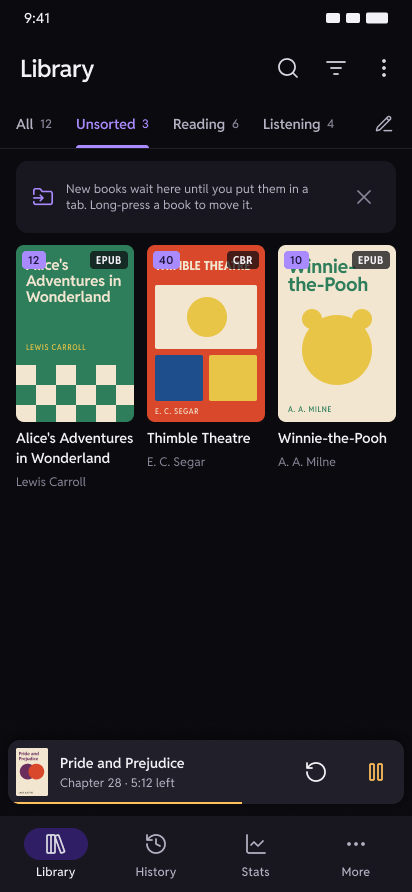
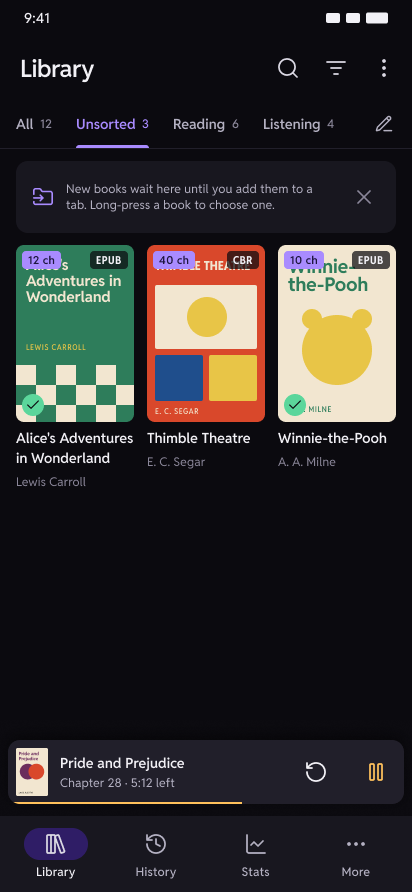
Apply review fixes: read along legibility, phase labels on canvas, tabs delete, book stats summary, paywall terms

diff --git a/design/demo-library.md b/design/demo-library.md
@@ -5,7 +5,7 @@ All titles are public domain except "Orb-weaver silk mechanics", which stands in
 | # | Title | Author | Type | Format | Count badge | Status | Progress |
 |---|---|---|---|---|---|---|---|
 | 1 | Moby-Dick; or, The Whale | Herman Melville | ebook | EPUB | 135 chapters | reading | 1% (chapter 1; on-device narration at 5% of the chapter) |
-| 2 | Frankenstein | Mary Shelley | ebook + audio pair | EPUB + M4B (8h 35m) | 24 chapters | reading | 32% (chapter 8, 4:50 of 20:37) |
+| 2 | Frankenstein | Mary Shelley | ebook + audio pair | EPUB + M4B (8h 35m) | 24 chapters | reading | 32% (chapter 8, 4:46 of 20:37) |
 | 3 | Pride and Prejudice | Jane Austen | audio | M4B | 11h 35m | reading | 45% |
 | 4 | Little Nemo in Slumberland | Winsor McCay | comic | CBZ | 190 pages | reading | page 118 of 190 (62%) |
 | 5 | The Time Machine | H. G. Wells | pdf | PDF | 240 pages | reading | page 118 of 240 (49%) on the phone; page 210 (88%) on the tablet |
@@ -19,18 +19,20 @@ All titles are public domain except "Orb-weaver silk mechanics", which stands in
 
 ## Library tabs (placed by hand)
 
-Defaults: All, Unsorted, Reading, Listening. Imports land in Unsorted. A book can be in more than one tab.
+Defaults: All, Unsorted, Reading, Listening. Imports land in Unsorted. A book can be in more than one tab. Every tab can be renamed or deleted; Restore default tabs brings the four defaults back.
+
+Count badges carry units: ch (chapters or issues), p (pages), or running time.
 
 - All 12 (fills itself).
 - Unsorted 3 (fills itself: books in no tab): 7, 11, 12.
 - Reading 6: 1, 2, 4, 5, 8, 10.
 - Listening 4: 2, 3, 6, 9.
 - Check: Reading ∪ Listening = 9 books (Frankenstein is in both), plus Unsorted 3 = 12.
-- Move sheet example: Alice (7) and Winnie-the-Pooh (12) selected, going into a new tab "Kids".
+- Add-to-tab example: Alice (7) and Winnie-the-Pooh (12) selected and added to a new tab "Kids" (0 books before, 2 after). Afterwards Unsorted shows 1 (Thimble Theatre).
 
 ## Status counts (from progress, not tabs)
 
-Started 7 (1, 2, 3, 4, 5, 8, 10) · Finished 2 (7, 12) · Not started 3 (6, 9, 11) = 12.
+In progress 7 (1, 2, 3, 4, 5, 8, 10) · Finished 2 (7, 12) · Not started 3 (6, 9, 11) = 12.
 
 ## Time spent, all time (sessions)
 
@@ -72,7 +74,7 @@ Not opened yet: MP3 (Dracula), CBR (Thimble Theatre). Shares add to 100%.
 | Sat 10 Oct | 42 | 60 | 102 (1h 42m) |
 | Total | 252 (4h 12m) | 365 (6h 05m) | 617 (10h 17m) |
 
-- Daily average 617 / 7 = 88.1 min → 1h 28m. Streak 7 days (every day above zero).
+- Daily average 617 / 7 = 88.1 min → 1h 28m. Streak 8 days: 9 Oct (13 min of Pride and Prejudice) through 16 Oct; nothing on 8 Oct.
 - Bars scale to the busiest day (105 min = full width).
 - Week listening 365 = Pride and Prejudice 300 + Frankenstein 65. Pride and Prejudice's other 13 min were on 9 Oct.
 - Today: 35m reading (The Time Machine) + 1h 10m listening (Pride and Prejudice, 45m + 25m). Last session: 25m of Pride and Prejudice.
@@ -89,13 +91,13 @@ Highlights 48 (Time Machine 9, Alice 14, Pooh 6, Frankenstein 11, Equiano 3, Orb
 ## Other derived numbers
 
 - Pride and Prejudice: 61 chapters, 11h 35m = 695 min. 45% = 313 min played, 6h 22m left. Chapter 28 is 12:40 long; at 7:28, 5:12 left in the chapter; 12 minute ticks.
-- Frankenstein audio: 8h 35m = 515 min. Chapter 8 is 3,093 words, read in 20:37 (1,237 s). At 4:50 the sentence "She was alarmed by this account…" is playing: 32.1% of the book, 15:47 left in the chapter, 515 × (1 − 0.321) = 350 min = 5h 50m left in the book. Chapter 8 has 20 minute ticks.
-- Time Machine sync prompt: 118 / 240 = 49%; 210 / 240 = 88%.
+- Frankenstein audio: 8h 35m = 515 min. Chapter 8 is 3,093 words, read in 20:37 (1,237 s), so about 0.4 s a word. The player sits at 4:46 (−15:51), where "She was alarmed by this account…" begins: 32.1% of the book, 515 × (1 − 0.321) = 350 min = 5h 50m left. The Read along frames run one word apart: "alarmed", "by", "this" at 4:47 (−15:50), "account", "and" at 4:48 (−15:49), "passed", "several" at 4:49 (−15:48). Chapter 8 has 20 minute ticks.
+- Time Machine sync prompt (shown to a Pro user; every other screen is a free user): 118 / 240 = 49% on the phone; 210 / 240 = 88% on the tablet, last read there 8 min ago.
 - Narration voice: Kokoro "Heart" (US English). Voice pack size "~80 MB" is a placeholder until the quantized model is chosen.
 
 ## Reading buddies
 
-Free: Silk (default), Inko, Lumen. Pro: Pip, Tako. Pro price and one-time vs yearly are still open in the plan, so no price is shown.
+Free: Silk (default), Inko, Lumen. Pro: Pip, Tako. The paywall shows "$4.99 a year" as an illustrative price; Pro price and one-time vs yearly are still open in the plan.
 
 ## Text on screen
 

diff --git a/design/design-profile.md b/design/design-profile.md
@@ -29,12 +29,12 @@
 - Kindle reading stats (owner's photos): "Last week" totals, per-day bars with dates and times, Session and Today blocks, and the per-book card (cover, percent, bar, reading time, page, pages left, time left, highlights, notes).
 - Mihon statistics (owner's screenshot): overview card with three numbers and icons, grouped count cards. Download counts are excluded on purpose.
 - Music-app lyrics view: text scrolls with the audio and the current line stays at a fixed height.
-- Pass rules: Reddit Sans text styles only; every colour bound to a variable; violet only for reading, amber only for listening; badges show the real file extension; no feature shown as live if the plan marks it later.
+- Pass rules: Reddit Sans text styles only; every colour bound to a variable; amber only for listening; badges show the real file extension; planned features carry a phase label on the canvas or in an annotation, never inside the app UI.
 
 ## Brand
 - Variables: collections `Primitives`, `Color` (Dark, Light), `Dimension`.
 - Type: Reddit Sans text styles (Display, Headline, Title, Body, Label, Reader, Numeric), Reddit Sans Condensed for badges.
-- Colour rules: violet = reading, amber = listening, red only for errors, green only for "finished".
+- Colour rules: violet is the app accent and the reading colour; amber is reserved for listening (audio, narration, the reading buddy); red only for errors; green only for "finished". Empty tracks and off toggles use border/track (3:1 on the canvas).
 - Logos: none yet. The wordmark is plain Reddit Sans text until a name is chosen.
 - Domain visual idea: the reading buddy, a small creature that walks the line being narrated and leaves footprints on the words it touches (from the owner's reference video).
 
